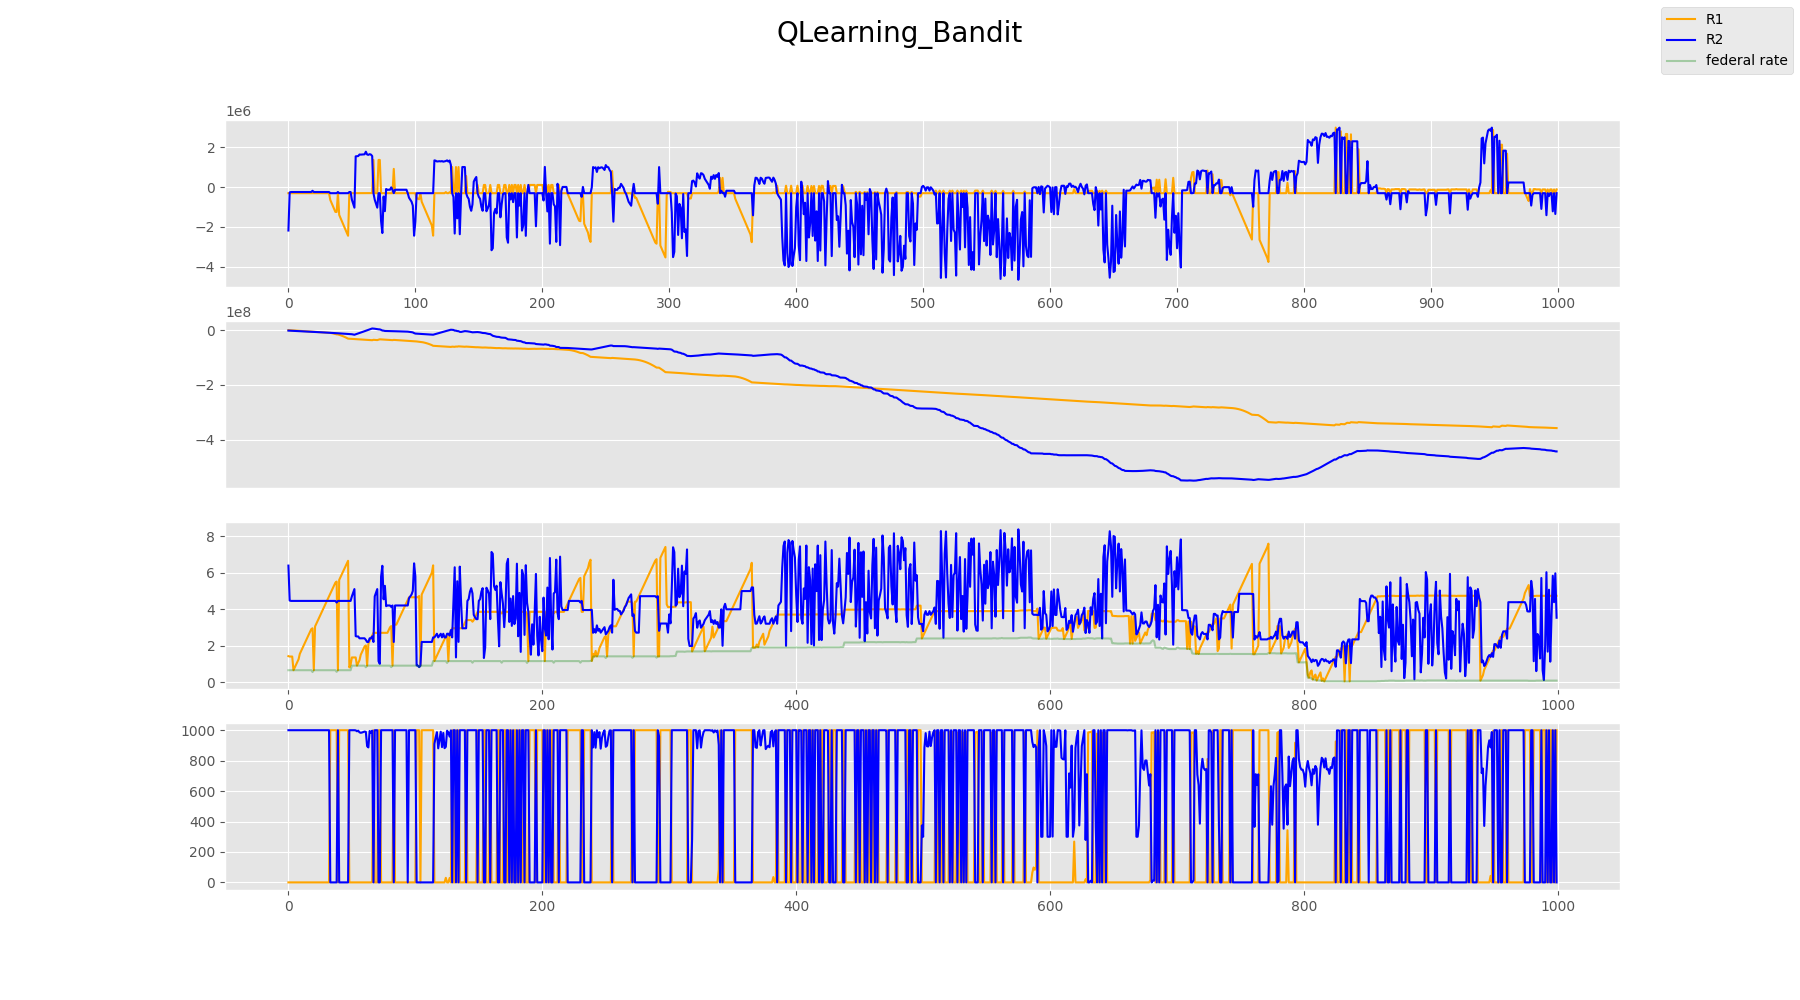
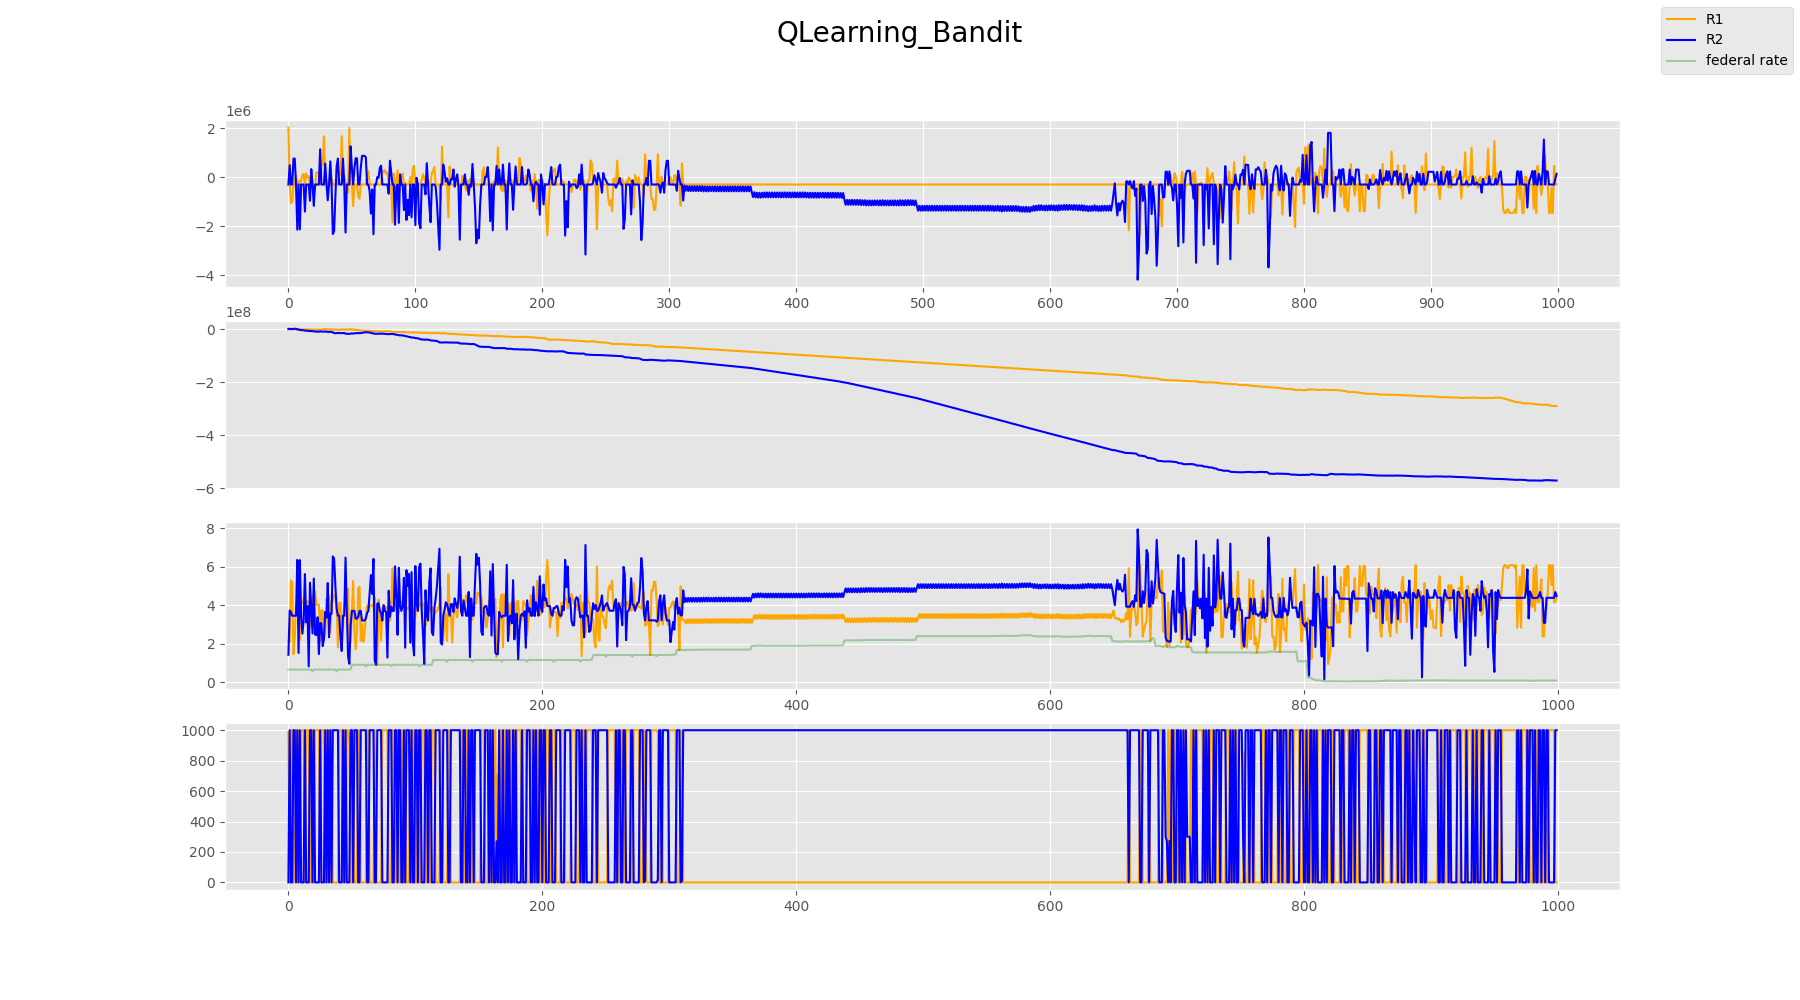
0808_2

diff --git a/p3/colosseum.py b/p3/colosseum.py
@@ -40,11 +40,15 @@ def static(**kwargs):
     return decorate
 
 
+def getrng():
+    create_rng.ctr += 1
+    return np.random.default_rng(create_rng.ctr)
+
+
 @static(ctr=0)
 def create_rng(func):
     if not hasattr(func, "rng"):
-        func.rng = np.random.default_rng(create_rng.ctr)
-        create_rng.ctr += 1
+        func.rng = getrng()
     return func
 
 
@@ -299,24 +303,25 @@ class QLearningProblem:
     def __init__(self, upb, lr=1, gamma=.4):
         self.learning_rate = lr
         self.gamma = gamma
-        self.ofdeltaScalar = Split(0, upb, int(upb / .15) + 1)
+        self.ofdeltaScalar = Split(0, upb, int(upb / .5) + 1)
+        self.actScalar = Split(-2, 2, 10)
         self.Q = collections.defaultdict(
-            lambda: {i: 0 for i in range(len(self.ofdeltaScalar))})
+            lambda: {i: 0 for i in range(len(self.actScalar))})
         self.Nt = collections.defaultdict(
             lambda: collections.defaultdict(lambda: 0))
         self.ctr = 0
-        self.lastS = None
         self.exploration = 1
+        self.rng = getrng()
+
+    def State(self, d):
+        return d.rate, self.ofdeltaScalar.predict(d.orate - d.rate)
 
     def Fit(self, fd):
         self.fd = fd
         d = fd[-1]
         reward = d.mrev - d.orev
-        s = d.rate
-        # if self.lastS and not self.Q[s]:
-        #     self.Q[s] = copy.deepcopy(self.Q[self.lastS])
-        self.lastS = s
-        action = self.ofdeltaScalar.predict(d.mrate - d.rate)
+        s = self.State(d)
+        action = self.actScalar.predict(d.mrate - d.orate)
         self.Nt[s][action] += 1
         maxQ = self.gamma * self.DictMax(self.Q[s])[1] if self.Q[s] else 0
         self.Q[s][action] = (1 - self.learning_rate) * self.Q[s][action] + \
@@ -336,19 +341,21 @@ class QLearningProblem:
         return math.sqrt(math.log(timestep)/nt)
 
     def predict(self, nrate):
-        data = self.fd[-1]
-        s = data.rate
+        d = self.fd[-1]
+        s = self.State(d)
 
         m = self.DictMax(self.Q[s])
-        if m[1] > 50000:
-            self.exploration = 0
+        if m[1] > 20000:
+            return self.actScalar.map(m[0]) + d.orate
+
+        if self.rng.random() < .35:
+            scalar = MinMaxScaler().fit(
+                A([self.DictMax(self.Q[s])[1], self.DictMin(self.Q[s])[1]]))
+            lsm = self.DictMax(
+                {x: scalar.transform(A(self.Q[s][x]))[0, 0] + self.exploration * self.Uncertainty(self.ctr, self.Nt[s][x]) for x in self.Q[s]})
+            return self.actScalar.map(lsm[0]) + d.orate
         else:
-            self.exploration = 1
-        scalar = MinMaxScaler().fit(
-            A([self.DictMax(self.Q[s])[1], self.DictMin(self.Q[s])[1]]))
-        lsm = self.DictMax(
-            {x: scalar.transform(A(self.Q[s][x]))[0, 0] + self.exploration * self.Uncertainty(self.ctr, self.Nt[s][x]) for x in self.Q[s]})
-        return self.ofdeltaScalar.map(lsm[0]) + nrate
+            return self.actScalar.map(self.rng.integers(len(self.actScalar))) + d.orate
 
 
 @create_rng
